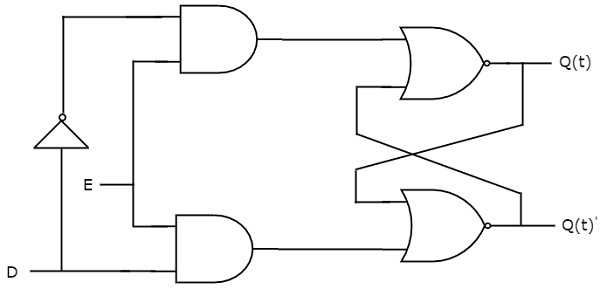
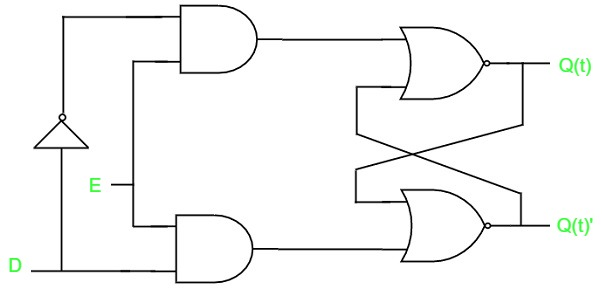
Fix plagiarism in 'Latches' page
* Fixed plagiarism for text
 * Fixed plagiarism for images by adding new images

diff --git a/docs/latches.md b/docs/latches.md
@@ -8,15 +8,15 @@ nav_order: 12
 # Latches
 {: .no_toc }
 
-There are two types of memory elements based on the type of triggering that is suitable to operate it.
+There are 2 types of memory elements, which is based on the type of triggering methods:
 
 * Latches
 * Flip-flops
 
-Latches operate with enable signal, which is level sensitive. 
-Whereas, flip-flops are edge sensitive. 
-We will discuss about flip-flops in next module. 
-Now, let us discuss about SR Latch & D Latch one by one.
+Latches operate with an enable signal, which is level sensitive. 
+Where as,the Flip-flops are edge sensitive. 
+In the next module, lets discuss on Flip-flops.
+Now, let us discuss on SR-Latch and D-Latch.
 
 ## Table of contents
 {: .no_toc .text-delta }
@@ -30,22 +30,22 @@ Now, let us discuss about SR Latch & D Latch one by one.
 
 ## SR Latch
 
-SR Latch is also called as Set Reset Latch. This latch affects the outputs as long as the enable, E is maintained at ‘1’. The circuit diagram of SR Latch is shown in the following figure.
+SR Latch(Set Reset Latch).The output is effected as long as the enable E is set to '1' .The circuit diagram of SR-Latch is given below.
 
 <div style="text-align:center"><img src="../assets/images/sr_latch.jpg" /></div>
 
-This circuit has two inputs S & R and two outputs Q(t) & Q(t)’. The **upper NOR gate** has two inputs R & complement of present state, Q(t)’ and produces next state, Q(t+1) when enable, E is ‘1’.
-Similarly, the **lower NOR gate** has two inputs S & present state, Q(t) and produces complement of next state, Q(t+1)’ when enable, E is ‘1’.
+The above circuit has 2 inputs 'S' & 'R' and the outputs Q(t) & Q(t)'. The **upper NOR-gate** has two inputs 'R' & complement of present state i.e. Q(t)' and produces next state i.e. Q(t+1) when the enable, E is '1'.
+Similarly, the **lower NOR-gate** has 2 inputs 'S' & present state i.e. Q(t) and produces complement of the next state i.e. Q(t+1)' when the enable, E is ‘1’.
 
-We know that a 2-input NOR gate produces an output, which is the complement of another input when one of the input is ‘0’. Similarly, it produces ‘0’ output, when one of the input is ‘1’.
+A 2-input NOR-gate produces an output, which is the inverse of another input, when one of the input is '0',and when one its input is equal to '1' it's output is equal to '0'.
 
-* If S = 1, then next state Q(t + 1) will be equal to ‘1’ irrespective of present state, Q(t) values.
+* If 'S' is equal to '1', Then Q(t + 1) will be equal to '1' regardless of the present state, Q(t) values.
 
-* If R = 1, then next state Q(t + 1) will be equal to ‘0’ irrespective of present state, Q(t) values.
+* If 'R' is equal to '1', Then Q(t + 1) will be equal to ‘0’ regardless of the present state, Q(t) values.
 
-At any time, only of those two inputs should be ‘1’. If both inputs are ‘1’, then the next state Q(t + 1) value is undefined.
+At any given time, only one of the two inputs should be ‘1’. If both inputs are ‘1’, then the next state i.e. Q(t + 1) value is undefined.
 
-The following table shows the state table of **SR latch**.
+Truth table for **SR latch**:
 
 | S      |    R    |   Q(t+1) |
 |:------:|:-------:|:--------:|
@@ -55,7 +55,7 @@ The following table shows the state table of **SR latch**.
 |  1     |    1    |    -     |
 
 
-Therefore, SR Latch performs three types of functions such as Hold, Set & Reset based on the input conditions.
+Therefore, SR-Latch performs 3 types of functions i.e. Hold, Reset and Set based on the given input conditions.
 
 
 
@@ -63,28 +63,28 @@ Therefore, SR Latch performs three types of functions such as Hold, Set & Reset 
 
 ## D Latch
 
-There is one drawback of SR Latch. That is the next state value can’t be predicted when both the inputs S & R are one. So, we can overcome this difficulty by D Latch. It is also called as Data Latch. The circuit diagram of D Latch is shown in the following figure.
+There is only one drawback of SR-Latch. That is, the next state value cannot be predicted when the inputs 'S' & 'R' are one. So, We can overcome this problem by a D-Latch(Data-Latch). The circuit diagram for D-Latch is given below:
 
 <div style="text-align:center"><img src="../assets/images/d_latch.jpg" /></div>
 
-This circuit has single input D and two outputs Q(t) & Q(t)’. D Latch is obtained from SR Latch by placing an inverter between S amp;& R inputs and connect D input to S. That means we eliminated the combinations of S & R are of same value.
+This circuit has a single input 'D', and 2 outputs Q(t) & Q(t)'. The D-Latch is obtained from SR-Latch, when an inverter is placed between R & S-amp inputs, and connect the 'D' input to 'S', which means that the  (S & R)'s combination is not of the same value.
 
-* If D = 0 → S = 0 & R = 1, then next state Q(t + 1) will be equal to ‘0’ irrespective of present state, Q(t) values. This is corresponding to the second row of SR Latch state table.
+* If (D = 0) => (S = 0) & (R = 1), then (Q(t + 1) = 0), regardless of the value of Q(t). This is similar to second row of the SR-Latch's state table.
 
-* If D = 1 → S = 1 & R = 0, then next state Q(t + 1) will be equal to ‘1’ irrespective of present state, Q(t) values. This is corresponding to the third row of SR Latch state table.
+* If (D = 1) => (S = 1) & (R = 0), then (Q(t + 1) = 1), regardless of the value of Q(t). This is similar to third row of the SR-Latch's state table.
 
-The following table shows the state table of D latch.
-
-
-| D      | Q(t + 1)    |
-|:------:|:-----:|
-| 0      | 0     |
-| 1      | 1     |
+The below table is the state table of D-Latch:
 
 
-Therefore, D Latch Hold the information that is available on data input, D. That means the output of D Latch is sensitive to the changes in the input, D as long as the enable is High.
+|    D    | Q(t + 1)|
+|:-------:|:-------:|
+|    0    |    0    |
+|    1    |    1    |
 
-In this module, we implemented various Latches by providing the cross coupling between NOR gates. Similarly, you can implement these Latches using NAND gates.
+
+Therefore, the D-Latch holds the information of the data input(D). Which means that the D-Latch's output depends on the change in input(D) till the enable ,E is equal to '1'.
+
+In this module, we used a variety of Latches, by providing cross coupling between the NOR-gates. In a similar way, we can use these Latches with the help of NAND-gates.
 
 
 <iframe width="100%" height="400px" src="https://circuitverse.org/simulator/embed/4276" id="projectPreview" scrolling="no" webkitAllowFullScreen mozAllowFullScreen allowFullScreen> </iframe>
